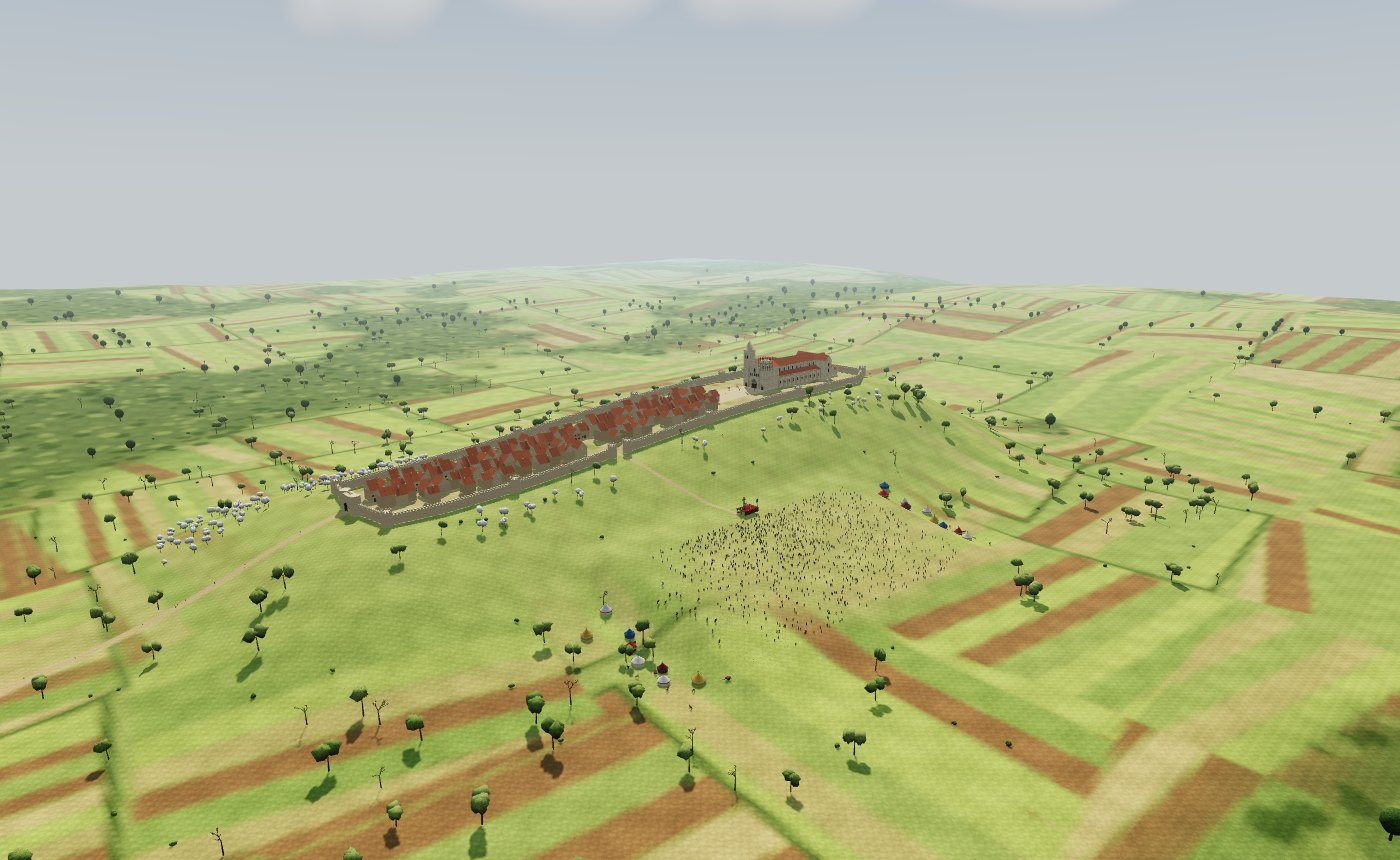
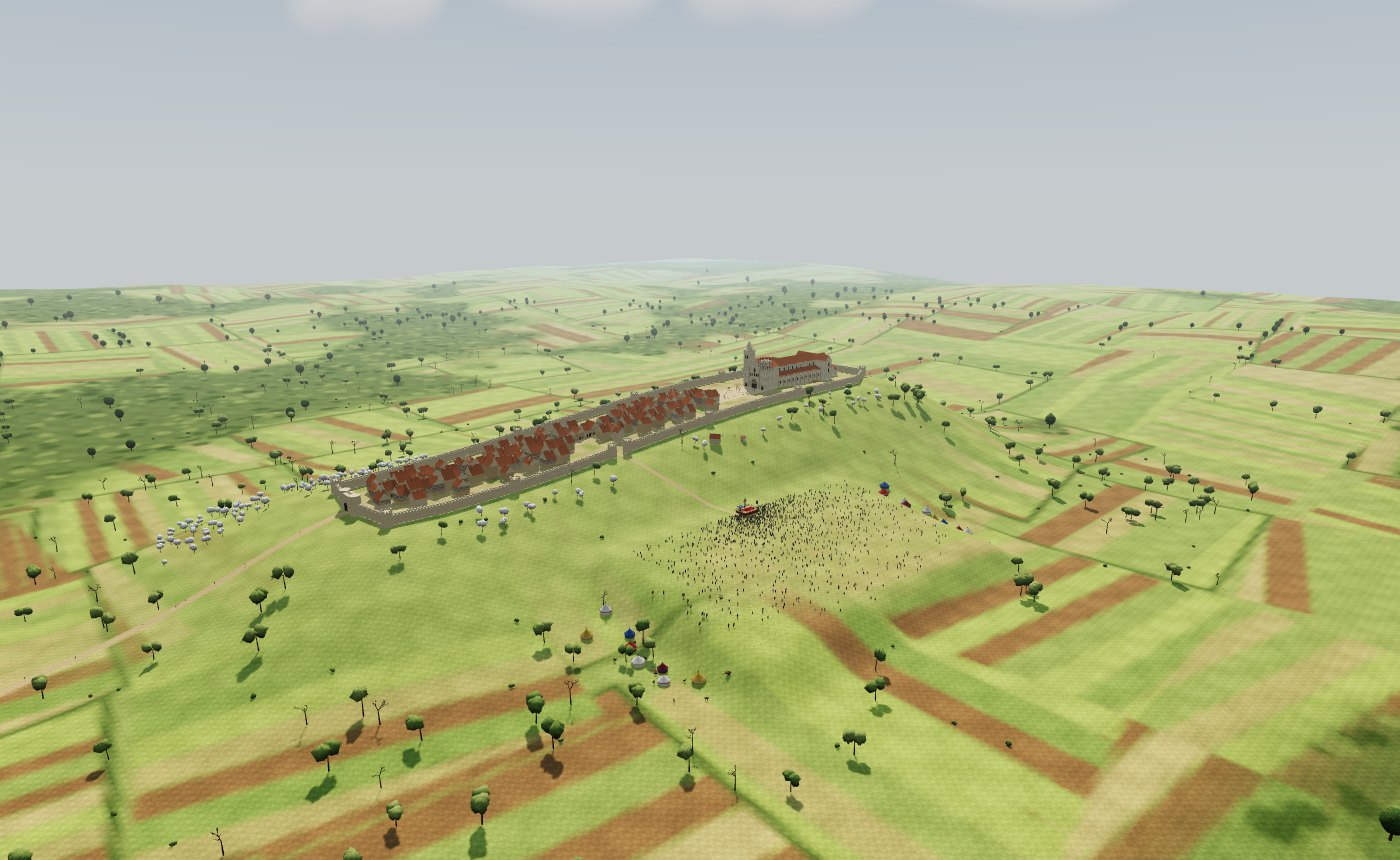
Vézelay : foule allégée au loin, illustrations lisibles sur téléphone, image de secours à jour
Claude-Session: https://claude.ai/code/session_01CWJmMGUNH32DeArK8WFtbv

Changed region(s): [[0.4607, 0.5744, 0.7371, 0.8163], [0.2457, 0.4535, 0.5221, 0.6047]]

diff --git a/vezelay/modeles.js b/vezelay/modeles.js
@@ -630,30 +630,30 @@
      Chaque silhouette donne des géométries par « couche » (corps, jambes, peau, coiffe, bras, manteau) colorées instance par instance. */
   M.silhouette = function (v) {
     const L = {}, add = (k, geo) => { (L[k] = L[k] || []).push(geo); };
-    const f = v.sexe === 'f', lg = v.longueur || 'courte';
+    const f = v.sexe === 'f', lg = v.longueur || 'courte', sg = n => v.grossier ? Math.max(4, Math.round(n * 0.62)) : n; // grossier : silhouettes lointaines, moins de facettes
     const yb = { courte: 0.52, mi: 0.3, longue: 0.07, cavalier: 0.62 }[lg], rO = { courte: 0.25, mi: 0.27, longue: 0.3, cavalier: 0.3 }[lg];
     if (lg === 'cavalier') { // assis en selle : l'origine est le creux de la selle
       [-1, 1].forEach(s => { add('jambes', segment(new THREE.Vector3(s * 0.12, 0.05, 0.05), new THREE.Vector3(s * 0.26, -0.3, 0.3), 0.07, 0.06, 6)); add('jambes', segment(new THREE.Vector3(s * 0.26, -0.3, 0.3), new THREE.Vector3(s * 0.26, -0.75, 0.2), 0.055, 0.045, 6)); });
       add('corps', drape([[0.3, -0.15], [0.24, 0.02], [0.17, 0.1]], 10, { n: 5, amp: 0.1, haut: 0.1, bas: -0.15 }, [1.25, 1.0]));
     } else {
-      if (yb > 0.2) [-1, 1].forEach(s => add('jambes', place(new THREE.CylinderGeometry(0.062, 0.045, 0.86, 7), s * 0.088, 0.46, 0)));
-      [-1, 1].forEach(s => add('jambes', place(new THREE.SphereGeometry(0.052, 7, 3, 0, TAU, 0, PI / 2), s * 0.085, 0, 0.04, 0, 0, 0, 0.85, 0.95, 2.1)));
+      if (yb > 0.2) [-1, 1].forEach(s => add('jambes', place(new THREE.CylinderGeometry(0.062, 0.045, 0.86, sg(7)), s * 0.088, 0.46, 0)));
+      [-1, 1].forEach(s => add('jambes', place(new THREE.SphereGeometry(0.052, sg(7), 3, 0, TAU, 0, PI / 2), s * 0.085, 0, 0.04, 0, 0, 0, 0.85, 0.95, 2.1)));
       const pj = [[rO, yb], [rO * 0.8 + 0.19 * 0.2, yb + (0.93 - yb) * 0.3], [(rO + 0.19) / 2, (yb + 0.93) / 2], [0.19, 0.93], [0.163, 1.0]];
-      add('corps', drape(pj, 14, { n: f ? 7 : 6, amp: 0.09, haut: 0.95, bas: yb, ph: v.ph || 0 }, [1.08, 0.9]));
+      add('corps', drape(pj, sg(14), { n: f ? 7 : 6, amp: 0.09, haut: 0.95, bas: yb, ph: v.ph || 0 }, [1.08, 0.9]));
     }
     const dy = lg === 'cavalier' ? -0.9 : 0;
-    add('corps', drape([[0.163, 1.0], [0.175, 1.2], [0.18, 1.33], [0.15, 1.43], [0.06, 1.5]].map(([r, y]) => [r * (f ? 0.92 : 1), y + dy]), 12, null, [1.14, 0.8]));
-    add('peau', crane(0.1, 12).translate(0, 1.65 + dy - C0, 0.012)); // la tête porte le visage peint (texture commune à la foule)
-    const cou = place(new THREE.CylinderGeometry(0.042, 0.047, 0.1, 7, 1, true), 0, 1.525 + dy, 0.005), U = cou.attributes.uv;
+    add('corps', drape([[0.163, 1.0], [0.175, 1.2], [0.18, 1.33], [0.15, 1.43], [0.06, 1.5]].map(([r, y]) => [r * (f ? 0.92 : 1), y + dy]), sg(12), null, [1.14, 0.8]));
+    add('peau', crane(0.1, sg(12)).translate(0, 1.65 + dy - C0, 0.012)); // la tête porte le visage peint (texture commune à la foule)
+    const cou = place(new THREE.CylinderGeometry(0.042, 0.047, 0.1, sg(7), 1, true), 0, 1.525 + dy, 0.005), U = cou.attributes.uv;
     for (let i = 0; i < U.count; i++) U.setXY(i, 0.75, 0.45); // le cou prend la peau de la nuque
     add('peau', cou);
     [-1, 1].forEach(s => { // bras : origine à la hauteur des épaules pour pouvoir les lever
-      add('bras', segment(new THREE.Vector3(s * 0.19, 0, 0), new THREE.Vector3(s * 0.22, -0.29, 0.02), 0.056, 0.046, 6));
-      add('bras', segment(new THREE.Vector3(s * 0.22, -0.29, 0.02), new THREE.Vector3(s * 0.2, -0.55, 0.1), 0.046, v.manches === 'larges' ? 0.1 : 0.036, 6));
-      add('mains', place(new THREE.SphereGeometry(0.036, 6, 5), s * 0.2, -0.6, 0.115, 0.3, 0, 0, 0.55, 1.35, 1.0));
+      add('bras', segment(new THREE.Vector3(s * 0.19, 0, 0), new THREE.Vector3(s * 0.22, -0.29, 0.02), 0.056, 0.046, sg(6)));
+      add('bras', segment(new THREE.Vector3(s * 0.22, -0.29, 0.02), new THREE.Vector3(s * 0.2, -0.55, 0.1), 0.046, v.manches === 'larges' ? 0.1 : 0.036, sg(6)));
+      add('mains', place(new THREE.SphereGeometry(0.036, sg(6), sg(5)), s * 0.2, -0.6, 0.115, 0.3, 0, 0, 0.55, 1.35, 1.0));
     });
     const c = v.coiffe, hc = 1.65 + dy;
-    const cal = (r, phi0, dphi, th0, dth) => new THREE.SphereGeometry(r, 10, 5, phi0, dphi, th0, dth).scale(0.8, 1.1, 0.97).translate(0, hc, 0.012);
+    const cal = (r, phi0, dphi, th0, dth) => new THREE.SphereGeometry(r, sg(10), 5, phi0, dphi, th0, dth).scale(0.8, 1.1, 0.97).translate(0, hc, 0.012);
     if (c === 'capuche') { add('coiffe', cal(0.124, PI / 2 + 0.85, TAU - 1.7, 0, 0.8 * PI)); add('coiffe', drape([[0.26, 1.24 + dy], [0.2, 1.4 + dy], [0.1, 1.55 + dy]], 9, null, [1.12, 0.95])); }
     if (c === 'cheveux') { add('coiffe', cal(0.105, 0, TAU, 0, 0.3 * PI)); add('coiffe', cal(0.104, PI / 2 + 0.55, TAU - 1.1, 0.28 * PI, 0.36 * PI)); }
     if (c === 'voile') { add('coiffe', cal(0.113, PI / 2 + 0.62, TAU - 1.24, 0, 0.62 * PI)); add('coiffe', drape([[0.22, 1.42 + dy], [0.15, 1.52 + dy], [0.11, 1.62 + dy]], 7, null, [0.95, 1.0], PI - 1.5, 3.0)); }

diff --git a/vezelay/jeu.js b/vezelay/jeu.js
@@ -339,15 +339,15 @@
   // petits schémas des objets de la société féodale
   function illustration(type) {
     if (type === 'ordres') {
-      const ordre = (x, titre, latin, dessin) => `<g transform="translate(${x} 0)"><circle cx="60" cy="52" r="38" fill="var(--cream)" stroke="var(--teal)" stroke-width="3"/>${dessin}<text x="60" y="112" text-anchor="middle" font-size="13" font-weight="700" fill="var(--ink)">${titre}</text><text x="60" y="128" text-anchor="middle" font-size="11.5" font-style="italic" fill="var(--caption)">${latin}</text></g>`;
-      return `<svg viewBox="0 0 360 140" role="img" aria-label="Les trois ordres : ceux qui prient, ceux qui combattent, ceux qui travaillent">`
+      const ordre = (x, titre, latin, dessin) => `<g transform="translate(${x} 0)"><circle cx="60" cy="52" r="38" fill="var(--cream)" stroke="var(--teal)" stroke-width="3"/>${dessin}<text x="60" y="107" text-anchor="middle" font-size="12" fill="var(--ink)">Ceux qui</text><text x="60" y="122" text-anchor="middle" font-size="13.5" font-weight="700" fill="var(--ink)">${titre.replace('Ceux qui ', '')}</text><text x="60" y="138" text-anchor="middle" font-size="11.5" font-style="italic" fill="var(--caption)">${latin}</text></g>`;
+      return `<svg viewBox="0 0 360 146" role="img" aria-label="Les trois ordres : ceux qui prient, ceux qui combattent, ceux qui travaillent">`
         + ordre(0, 'Ceux qui prient', 'oratores', '<path d="M60 26 v52 M44 42 h32" stroke="var(--teal)" stroke-width="6" stroke-linecap="round"/>')
         + ordre(120, 'Ceux qui combattent', 'bellatores', '<path d="M42 30 h36 v22 q0 22 -18 30 q-18 -8 -18 -30 z" fill="var(--vermilion)"/><path d="M60 34 v44" stroke="var(--cream)" stroke-width="4"/>')
         + ordre(240, 'Ceux qui travaillent', 'laboratores', '<path d="M40 70 l30 -30 M62 32 l16 16 M36 78 h48" stroke="#7A5A38" stroke-width="6" stroke-linecap="round"/>')
         + '</svg><figcaption>La société des trois ordres, décrite vers l\'an mil par l\'évêque Adalbéron de Laon.</figcaption>';
     }
     if (type === 'pyramide') {
-      const niveau = (y, l, texte, fond) => `<rect x="${180 - l / 2}" y="${y}" width="${l}" height="30" rx="5" fill="${fond}"/><text x="180" y="${y + 20}" text-anchor="middle" font-size="13" font-weight="700" fill="${fond === 'var(--teal)' ? 'var(--teal-ink)' : 'var(--ink)'}">${texte}</text>`;
+      const niveau = (y, l, texte, fond) => `<rect x="${180 - l / 2}" y="${y}" width="${l}" height="30" rx="5" fill="${fond}" stroke="var(--dot)" stroke-width="1.5"/><text x="180" y="${y + 20}" text-anchor="middle" font-size="13" font-weight="700" fill="${fond === 'var(--teal)' ? 'var(--teal-ink)' : 'var(--ink)'}">${texte}</text>`;
       return `<svg viewBox="0 0 360 178" role="img" aria-label="La pyramide féodale : le roi, les grands seigneurs, les chevaliers, les paysans">`
         + niveau(4, 120, 'Le roi (suzerain)', 'var(--teal)') + niveau(42, 190, 'Ducs et comtes', 'var(--cream)') + niveau(80, 260, 'Chevaliers (vassaux)', 'var(--cream)') + niveau(118, 340, 'Paysans (tenanciers)', 'var(--gold-soft)')
         + '<path d="M22 110 V16" stroke="var(--vermilion)" stroke-width="2.5" marker-end="url(#fl)"/><path d="M338 16 V110" stroke="var(--teal)" stroke-width="2.5" marker-end="url(#fl2)"/>'

diff --git a/vezelay/scene3d.js b/vezelay/scene3d.js
@@ -812,6 +812,9 @@
       const k = cle(Math.floor(x / C), Math.floor(z / C)); if (!grille.has(k)) grille.set(k, []); grille.get(k).push(p);
       gens.push(p); n++;
     }
+    // près de l'estrade (là où l'on regarde de près), silhouettes fines ; au loin, silhouettes allégées
+    const nV = V.length; V.slice().forEach(x => V.push(Object.assign({}, x, { v: Object.assign({ grossier: true }, x.v) })));
+    gens.forEach(p => { if (Math.hypot(p.x - EST.x, (p.z - EST.z) * 1.2) > 30) p.v += nV; });
     foule = troupe(gens, V, rnd, 1.42, true);
     foule.agitation = 0;
     placerTroupe(foule, 0, 0);
@@ -1422,5 +1425,6 @@
   S.hauteur = hauteur;
   S.POINTS = POINTS;
   S.enMouvement = () => !!cam.trajet;
+  S._rendu = () => renderer; S._scene = () => scene; // pour les tests automatiques (mesures)
   window.Scene3D = S;
 })();
